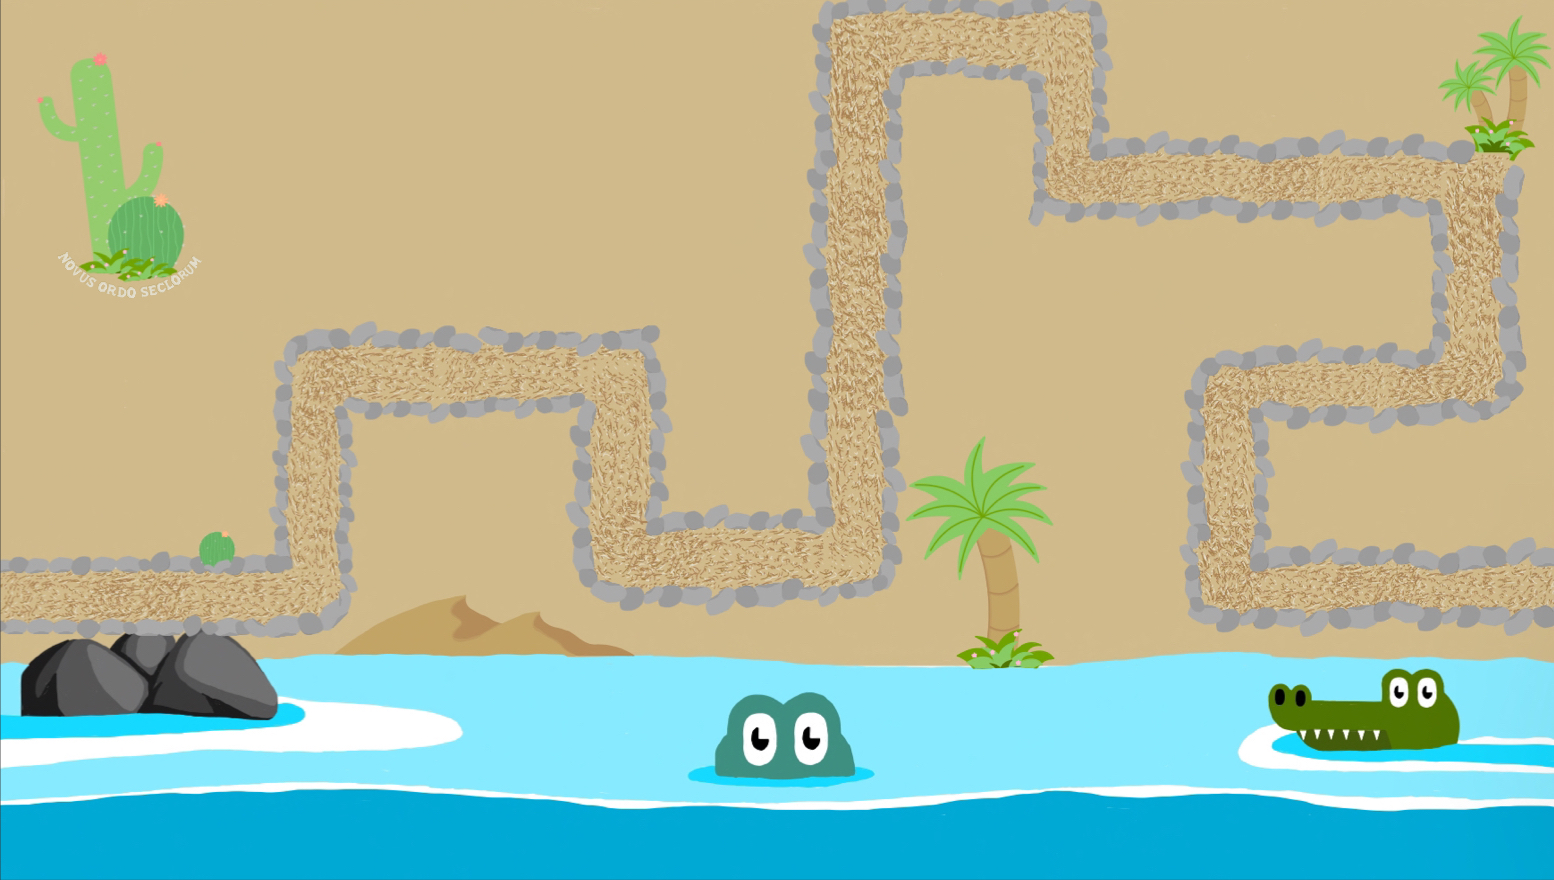
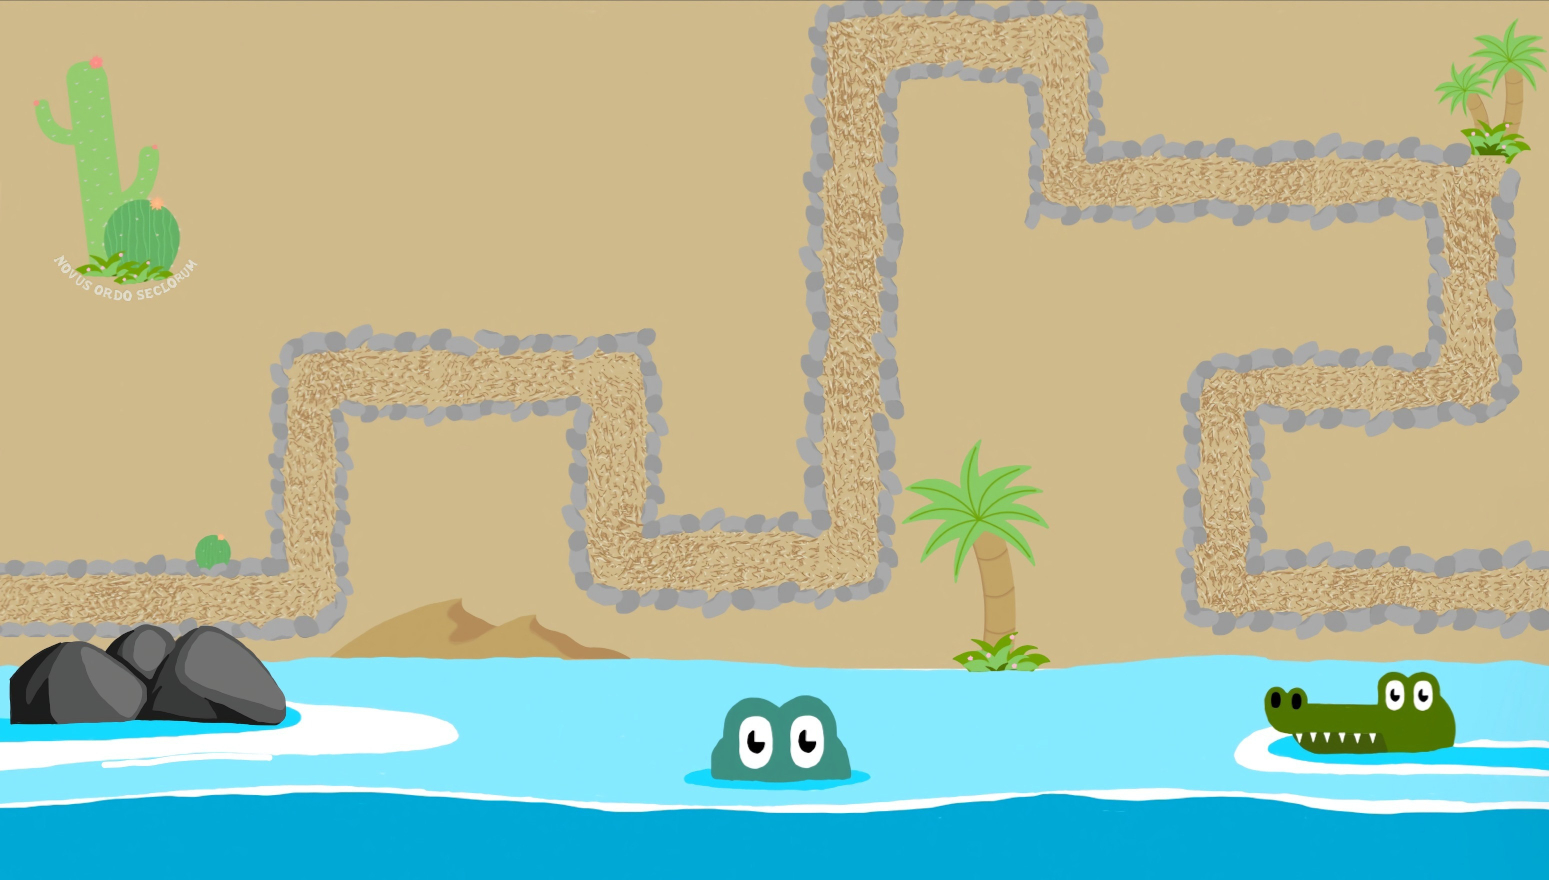
replaced placeholder textures, fixed draw issue

Changed region(s): [[0.0, 0.0, 1.0, 0.9511], [0.0, 0.0614, 0.124, 0.3375], [0.2789, 0.675, 0.3099, 0.7057]]

diff --git a/src/game.py b/src/game.py
@@ -75,15 +75,15 @@ class Enemy(pygame.sprite.Sprite):
         # loads the image, scales it to 50x50, makes alpha channel transparent
         self.imgPath = os.getcwd() + "/assets/" + type + ".png"
         img = pygame.image.load(self.imgPath).convert_alpha()
-        
-        #prevents the boss from being scaled down, would loose detail otherwise
-        if not type ==  "boss":
-            img = pygame.transform.scale(img, (50, 50))
         self.image = img
 
         # sets waypoints to follow
         self.waypoints = [(-50, 530), (225, 530), (225, 325), (460, 325), (460, 490), (645, 490), (645, 20), (805, 20), (805, 145), (1115, 145), (1115, 335), (935, 335), (935, 520), (1200, 520), (1250,520)]
         
+        # offsets the by 10 pixels, centers the enemy on the path better
+        for i in range(len(self.waypoints)):
+            self.waypoints[i] = (self.waypoints[i][0] - 10, self.waypoints[i][1] - 10)
+
         # duplicates the waypoints for the boss enemy, since it needs to be offset on the y-axis
         self.waypointsBoss = self.waypoints.copy()
         for i in range(len(self.waypointsBoss)):
@@ -96,8 +96,10 @@ class Enemy(pygame.sprite.Sprite):
 
     def spawnLightEnemy(self):
         self.health = 25
-        self.speed = 3.5
+        self.speed = 3.25
         self.damage = 1
+
+        self.image = pygame.transform.scale(self.image, (50, 60))
       
         # draws a rectangle over the image, used for collision detection
         self.rect = self.image.get_rect(center=self.position)
@@ -106,8 +108,12 @@ class Enemy(pygame.sprite.Sprite):
 
     def spawnHeavyEnemy(self):  
         self.health = 100
-        self.speed = 1.5
+        self.speed = 2.25
         self.damage = 5
+
+        self.image = pygame.transform.scale(self.image, (50, 90))
+
+        self.waypoints = self.waypointsBoss
 
         self.rect = self.image.get_rect(center=self.position)
 
@@ -118,6 +124,8 @@ class Enemy(pygame.sprite.Sprite):
         self.speed = 5
         self.damage = 2
 
+        self.image = pygame.transform.scale(self.image, (40, 60))
+        
         self.rect = self.image.get_rect(center=self.position)
 
         print("Fast enemy spawned")
@@ -155,7 +163,7 @@ class Enemy(pygame.sprite.Sprite):
         # draws the enemy continuously on screen, kills the enemy if health is below 0
         if self.health <= 0:
             self.killEnemy()
-        groupEnemies.draw(self.screen)
+        self.screen.blit(self.image, self.rect)
 
     def killEnemy(self):
         # removes the enemy from all groups, preventing it from being drawn
@@ -218,7 +226,7 @@ class Tower(pygame.sprite.Sprite):
         # loads the image, scales it to 50x50, makes alpha channel transparent
         self.imgPath = os.getcwd() + "/assets/" + type + ".png"
         img = pygame.image.load(self.imgPath).convert_alpha()
-        img = pygame.transform.scale(img, (100, 100))
+        img = pygame.transform.scale(img, (100, 100))   
         self.image = img
 
         self.buildmode = True
@@ -231,6 +239,8 @@ class Tower(pygame.sprite.Sprite):
         self.range = 150
         self.fireRate = 500
 
+        self.image = pygame.transform.scale(self.image, (110, 80))
+
         self.rect = self.image.get_rect(center=self.position)
     
     def spawnSniperTower(self):
@@ -238,15 +248,16 @@ class Tower(pygame.sprite.Sprite):
         self.range = 300
         self.fireRate = 2000
 
+        self.image = pygame.transform.scale(self.image, (45, 130))
+
         self.rect = self.image.get_rect(center=self.position)
 
         print("Sniper tower spawned")
 
     def spawnFlamerTower(self):
-        self.damage = 0.5
+        self.damage = 1
         self.range = 120
-        self.fireRate = 250
-
+        self.fireRate = 100
 
         self.rect = self.image.get_rect(center=self.position)
 
@@ -256,6 +267,8 @@ class Tower(pygame.sprite.Sprite):
         self.damage = 0
         self.range = 100
         self.fireRate = 5000
+
+        self.image = pygame.transform.scale(self.image, (100, 70))
 
         self.rect = self.image.get_rect(center=self.position)
 
@@ -310,7 +323,7 @@ class Tower(pygame.sprite.Sprite):
      
     def draw(self):
         # draws the tower continuously on screen
-        groupTowers.draw(self.screen)
+        self.screen.blit(self.image, self.rect)
 
     def drawRange(self):
         # draws the range of the tower
@@ -326,7 +339,7 @@ class Tower(pygame.sprite.Sprite):
         #if the current time is greater or equal to the last time the tower shot + the fire rate, shoot
         if now - self.last >= self.fireRate and self.buildmode == False and not self.target == None:
             self.last = now
-            Projectile(self.screen, self.rect.center, self.target, "basicBullet", self.damage)
+            Projectile(self.screen, self.rect.center, self.target, (self.type + "Projectile"), self.damage)
         else:
             pass
 
@@ -370,14 +383,14 @@ class Projectile(pygame.sprite.Sprite):
             self.killProjectile()
 
             self.target.health -= self.damage
-            #print("Enemy health:", self.target.health)
+            print("Enemy health:", self.target.health)
 
         # move the projectile towards the target
         self.rect.x += (self.target.x - self.rect.x) / self.speed
         self.rect.y += (self.target.y - self.rect.y) / self.speed
 
     def draw(self):
-        groupProjectiles.draw(self.screen)
+        self.screen.blit(self.image, self.rect)
 
     def killProjectile(self):
         self.kill()
@@ -403,7 +416,6 @@ class MenuButton(pygame.sprite.Sprite):
         groupMenuButtons.add(self)
 
     def draw(self):
-        # self.draw messes with semi-transparent images, so we need to use self.screen.blit, which in turn doesn't work with movement
         self.screen.blit(self.image, self.position)
 
     def buttonPressed(self):
@@ -556,7 +568,7 @@ def main():
         if len(groupEnemies) == 0 and health > 0:
             # check if all waves are done, if so, go to win state
             if currentWave > 9:
-                winState()
+                winState(screen)
             elif health > 0:
                 currentWave += 1
                 #DEBUG, uncomment to spawn enemies
@@ -589,6 +601,9 @@ def createMapPath(screen):
 
     # defines path corners
     points = [(-50, 530), (225, 530), (225, 325), (460, 325), (460, 490), (645, 490), (645, 20), (805, 20), (805, 145), (1115, 145), (1115, 335), (935, 335), (935, 520), (1200, 520), (1250,520), (1250, 900), (-50, 900)]
+
+    for i in range(len(points)):
+            points[i] = (points[i][0] - 10, points[i][1] - 10)
 
     waypointsBoss = points.copy()
     
@@ -732,10 +747,13 @@ def getClosestEnemy(tower):
         return sortedDistances[0][1]
     
 
-def winState():
-    print("You win!")
-    pygame.quit()
-    exit()
+def winState(screen):
+    GUI.win(screen)
+
+    for e in groupSprites:
+        e.kill()
+    #pygame.quit()
+    #exit()
 
 def looseState(screen):
     GUI.gameOver(screen)
@@ -755,7 +773,6 @@ if __name__ == "__main__":
 #       Main menu + Tutorial
 #       Pause between waves/start wave button
 #       Tutorial
-#       Display tower price
 #       
 #
 #

diff --git a/src/readWaves.py b/src/readWaves.py
@@ -11,7 +11,6 @@ def read(currentWave):
     lineContents = file.readlines()[currentWave].replace("\n", "")
 
     if lineContents == "end":
-        
         return False
 
     toBeSpawned = []
@@ -24,5 +23,4 @@ def read(currentWave):
 
     # flatten the list, I'm not sure why it's even nested
     flatList = sum(toBeSpawned, [])
-
     return flatList

diff --git a/src/GUI.py b/src/GUI.py
@@ -31,7 +31,7 @@ def gameOver(screen):
     screen.blit(img, (0, 0))
 
 def win(screen):
-    img = pygame.image.load(path +"/assets/win.png").convert()
+    img = pygame.image.load(path +"/assets/win.png").convert_alpha()
     img = pygame.transform.scale(img, (1200, 800))
 
     screen.blit(img, (0, 0))
